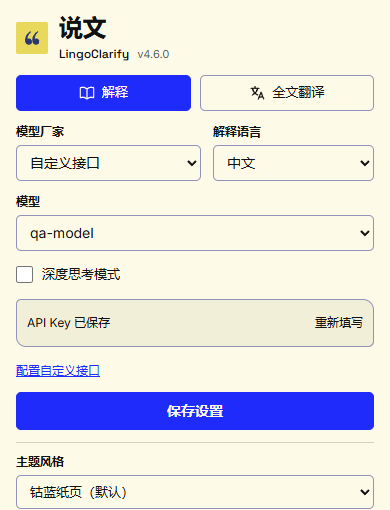
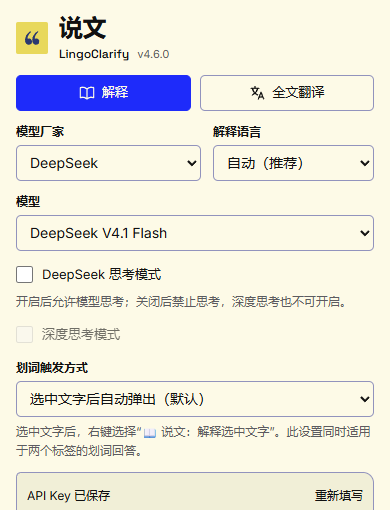
恢复划词触发设置并增加 DeepSeek 思考模式联动控制

diff --git a/popup.js b/popup.js
@@ -97,6 +97,16 @@ function renderModelOptions(tab) {
   }
   tab.detail.textContent = !entries.length && connection.apiKey ? '模型列表由当前接口提供。' : '';
   tab.detail.hidden = !tab.detail.textContent;
+  renderThinkingControls(tab);
+}
+function renderThinkingControls(tab) {
+  const kind = tab.kind;
+  const deepSeek = AIConfig.isDeepSeekEndpoint(providerConnection(tab.manufacturer.value).apiBaseUrl);
+  $(kind+'-deepseek-thinking-section').hidden = !deepSeek;
+  const blocked = deepSeek && !$(kind+'-deepseek-thinking').checked;
+  $(kind+'-thinking').disabled = blocked;
+  if (blocked) $(kind+'-thinking').checked = false;
+  $(kind+'-effort-section').style.display = $(kind+'-thinking').checked ? '' : 'none';
 }
 function renderAllModelOptions() { tabs.forEach(renderModelOptions); }
 function setTabSelection(tab, id) {
@@ -275,9 +285,9 @@ tabs.forEach(tab => tab.manufacturer.addEventListener('change', () => {
   refreshProviderModels(tab.manufacturer.value);
 }));
 for (const kind of ['explain','translate']) {
-  $(kind+'-thinking').addEventListener('change',()=> {
-    $(kind+'-effort-section').style.display=$(kind+'-thinking').checked ? '' : 'none';
-  });
+  const tab = tabs.find(tab=>tab.kind===kind);
+  $(kind+'-thinking').addEventListener('change',()=>renderThinkingControls(tab));
+  $(kind+'-deepseek-thinking').addEventListener('change',()=>renderThinkingControls(tab));
 }
 $('rewrite-key').addEventListener('click',()=>{
   editingKeys.add(connectionProvider);
@@ -354,9 +364,11 @@ $('save-btn').addEventListener('click',async()=>{
     const config={...manufacturerSettings(),...modelSettings(),
       explainThinkingEnabled:$('explain-thinking').checked,explainReasoningEffort:$('explain-effort').value,
       translateThinkingEnabled:$('translate-thinking').checked,translateReasoningEffort:$('translate-effort').value,
+      explainDeepSeekThinkingEnabled:$('explain-deepseek-thinking').checked,
+      translateDeepSeekThinkingEnabled:$('translate-deepseek-thinking').checked,
       language:$('explain-language').value,targetLanguage:$('target-language').value,
       enabled:savedConfig.enabled!==false,usePageContext:savedConfig.usePageContext!==false,
-      triggerMode:savedConfig.triggerMode||'auto',requiresApiSetup:false};
+      triggerMode:$('trigger-mode').value,requiresApiSetup:false};
     await chrome.storage.local.set(config);
     for (const [provider,connection] of Object.entries(providerConnections)) savedKeys[provider]=connection.apiKey;
     editingKeys.clear();showConnection();
@@ -377,10 +389,12 @@ $('save-btn').addEventListener('click',async()=>{
   for (const tab of tabs) {
     tab.manufacturer.value=config[tab.kind+'Manufacturer'];
     $(tab.kind+'-thinking').checked=config[tab.kind+'ThinkingEnabled']===true;
+    $(tab.kind+'-deepseek-thinking').checked=config[tab.kind+'DeepSeekThinkingEnabled']===true;
     $(tab.kind+'-effort').value=config[tab.kind+'ReasoningEffort']||'high';
     $(tab.kind+'-effort-section').style.display=$(tab.kind+'-thinking').checked ? '' : 'none';
   }
   $('explain-language').value=config.language||'auto';$('target-language').value=config.targetLanguage||'zh';
+  $('trigger-mode').value=config.triggerMode;
   showConnection();renderAllModelOptions();
   tabs.forEach(tab=>setTabSelection(tab,config[tab.key]));
   refreshCatalog();

diff --git a/background.js b/background.js
@@ -233,10 +233,10 @@ async function performStreamRequest(port, { promptType, text, context, batchId, 
     port.disconnect();
     return;
   }
+  const kind = mode ? (mode === 'B' ? 'translate' : 'explain') : (promptType === 'explain' ? 'explain' : 'translate');
   let baseUrl;
   let connection;
   try {
-    const kind = mode ? (mode === 'B' ? 'translate' : 'explain') : (promptType === 'explain' ? 'explain' : 'translate');
     connection = AIConfig.connectionFor(config, kind);
     baseUrl = AIConfig.normalizeBaseUrl(connection.apiBaseUrl);
   }
@@ -257,13 +257,14 @@ async function performStreamRequest(port, { promptType, text, context, batchId, 
     return;
   }
 
-  // 试用分支：仅对 DeepSeek 官方端点强制关闭，保留已保存设置便于切回对照。
-  const deepSeekThinkingOff = new URL(baseUrl).hostname === 'api.deepseek.com';
-  if (deepSeekThinkingOff) thinkingEnabled = false;
+  // 官方端点显式控制思考；第三方网关不凭模型名发送厂家专用参数。
+  const deepSeek = AIConfig.isDeepSeekEndpoint(baseUrl);
+  const deepSeekThinkingEnabled = deepSeek && config[kind + 'DeepSeekThinkingEnabled'] === true;
+  if (deepSeek && !deepSeekThinkingEnabled) thinkingEnabled = false;
 
   // 缓存检查（键包含思考开关，避免开关切换后命中旧缓存）
   const cacheKey = JSON.stringify([cacheRevision, baseUrl, model, systemPrompt, prompt,
-    thinkingEnabled, reasoningEffort]);
+    deepSeekThinkingEnabled, thinkingEnabled, reasoningEffort]);
   const doneMessage = output => {
     if (!batchItems) return { type: 'done', model, batchId };
     const items = parseBatchTranslation(output, batchItems.map(item => item.id));
@@ -314,8 +315,8 @@ async function performStreamRequest(port, { promptType, text, context, batchId, 
       stream: true
     };
     // 默认使用最小公共参数，避免不同模型对 temperature / token 上限的差异。
-    if (deepSeekThinkingOff) body.thinking = { type: 'disabled' };
-    else if (thinkingEnabled) body.reasoning_effort = reasoningEffort;
+    if (deepSeek) body.thinking = { type: deepSeekThinkingEnabled ? 'enabled' : 'disabled' };
+    if (thinkingEnabled) body.reasoning_effort = reasoningEffort;
     const endpoint = `${baseUrl}/chat/completions`;
 
     const res = await fetchWithRetry(endpoint, {
@@ -458,6 +459,7 @@ const GENERATION_FIELDS = new Set(['enabled', 'usePageContext', 'triggerMode',
   'language', 'targetLanguage', 'explainModel', 'translateModel',
   'explainManufacturer', 'translateManufacturer', 'explainThinkingEnabled',
   'translateThinkingEnabled', 'explainReasoningEffort', 'translateReasoningEffort',
+  'explainDeepSeekThinkingEnabled', 'translateDeepSeekThinkingEnabled',
   'apiBaseUrl', 'apiKey', 'availableModels', 'modelList', 'modelManufacturers',
   'apiConfigVersion', 'providerConfigVersion', 'modelCatalogVersion',
   'qwenApiKey', 'customModels', 'model', 'thinkingEnabled', 'reasoningEffort']);

diff --git a/config.js b/config.js
@@ -19,6 +19,10 @@
   // 官方厂家有固定地址；自定义连接必须提供自己的地址，不能借用默认厂家。
   const endpointFor = (provider, entry = {}) => PROVIDER_ENDPOINTS[provider] ||
     (typeof entry.apiBaseUrl === 'string' ? entry.apiBaseUrl.trim() : '');
+  function isDeepSeekEndpoint(input) {
+    try { return new URL(input).hostname === 'api.deepseek.com'; }
+    catch { return false; }
+  }
 
   function normalizeBaseUrl(input) {
     let url;
@@ -35,6 +39,7 @@
     const config = { enabled: true, usePageContext: true, triggerMode: 'auto',
       language: 'auto', targetLanguage: 'zh', explainThinkingEnabled: false,
       translateThinkingEnabled: false, explainReasoningEffort: 'high',
+      explainDeepSeekThinkingEnabled: false, translateDeepSeekThinkingEnabled: false,
       translateReasoningEffort: 'high', verifyModel: true, ...raw };
     if (raw.apiConfigVersion !== 1) {
       // 旧版的 apiKey 属于专用供应商，不能发到新默认地址。
@@ -88,6 +93,13 @@
       config.providerConfigVersion = 1;
     }
     config.providerConnections = normalizeConnections(config.providerConnections);
+    config.triggerMode = config.triggerMode === 'contextMenu' ? 'contextMenu' : 'auto';
+    for (const kind of ['explain', 'translate']) {
+      config[kind + 'DeepSeekThinkingEnabled'] = config[kind + 'DeepSeekThinkingEnabled'] === true;
+      const provider = config[kind + 'Manufacturer'];
+      if (isDeepSeekEndpoint(endpointFor(provider, config.providerConnections[provider])) &&
+          !config[kind + 'DeepSeekThinkingEnabled']) config[kind + 'ThinkingEnabled'] = false;
+    }
     for (const key of ['explainReasoningEffort', 'translateReasoningEffort']) {
       if (!['low', 'medium', 'high'].includes(config[key])) config[key] = 'high';
     }
@@ -141,6 +153,6 @@
   }
 
   globalThis.AIConfig = { DEFAULT_MODEL, DEFAULT_MODELS, DEFAULT_BASE_URL,
-    PROVIDER_ENDPOINTS, validProvider, endpointFor, normalizeConnections, connectionFor,
+    PROVIDER_ENDPOINTS, validProvider, endpointFor, isDeepSeekEndpoint, normalizeConnections, connectionFor,
     normalizeModel, normalizeModels, normalizeBaseUrl, migrate, load };
 })();

diff --git a/popup.html b/popup.html
@@ -42,6 +42,14 @@
 
     </div>
 
+    <div class="section" id="explain-deepseek-thinking-section" hidden>
+      <label class="toggle-label">
+        <input type="checkbox" id="explain-deepseek-thinking" aria-describedby="explain-deepseek-thinking-hint" aria-controls="explain-thinking">
+        <span class="toggle-text">DeepSeek 思考模式</span>
+      </label>
+      <p class="hint" id="explain-deepseek-thinking-hint">开启后允许模型思考；关闭后禁止思考，深度思考也不可开启。</p>
+    </div>
+
     <div class="section">
       <label class="toggle-label">
         <input type="checkbox" id="explain-thinking">
@@ -78,6 +86,14 @@
 
     </div>
 
+    <div class="section" id="translate-deepseek-thinking-section" hidden>
+      <label class="toggle-label">
+        <input type="checkbox" id="translate-deepseek-thinking" aria-describedby="translate-deepseek-thinking-hint" aria-controls="translate-thinking">
+        <span class="toggle-text">DeepSeek 思考模式</span>
+      </label>
+      <p class="hint" id="translate-deepseek-thinking-hint">开启后允许模型思考；关闭后禁止思考，深度思考也不可开启。</p>
+    </div>
+
     <div class="section">
       <label class="toggle-label">
         <input type="checkbox" id="translate-thinking">
@@ -94,6 +110,15 @@
       </select>
     </div>
 
+  </div>
+
+  <div class="section" id="trigger-mode-section">
+    <label class="label" for="trigger-mode">划词触发方式</label>
+    <select id="trigger-mode" class="select" aria-describedby="trigger-mode-hint">
+      <option value="auto">选中文字后自动弹出（默认）</option>
+      <option value="contextMenu">仅右键菜单触发</option>
+    </select>
+    <p class="hint" id="trigger-mode-hint">选中文字后，右键选择“📖 说文：解释选中文字”。此设置同时适用于两个标签的划词回答。</p>
   </div>
 
   <div class="section key-section">

diff --git a/popup.css b/popup.css
@@ -34,6 +34,8 @@ button { cursor: pointer; }
 .toggle-label { display: flex; align-items: center; gap: 9px; cursor: pointer; min-height: 24px; }
 .toggle-label input { width: 17px; height: 17px; accent-color: var(--lc-accent); }
 .toggle-text { font-size: 13px; }
+.toggle-label:has(input:disabled) { opacity: .6; cursor: not-allowed; }
+.toggle-label input:disabled { cursor: not-allowed; }
 .key-section { padding: 8px 10px; margin-top: 12px; border: 1.5px solid var(--lc-border); border-radius: 5px 11px 6px 10px; background: var(--lc-soft); }
 .key-saved { display: flex; flex-wrap: wrap; align-items: center; justify-content: space-between; gap: 8px 12px; font-size: 12px; }
 .key-saved > span, .key-saved .mini-btn { flex-shrink: 0; white-space: nowrap; }

diff --git a/docs/SETTINGS_CONTROLS_QA.md b/docs/SETTINGS_CONTROLS_QA.md
@@ -1,0 +1,42 @@
+# 划词触发方式、DeepSeek 思考控制与 GitHub 文件说明验收
+
+日期：2026-10-13，北京时间。扩展版本4.6.0，本次未发布新版本。基线 `03d7b46c4cffd317aea971c30b070aac865c80ac`，起始工作区干净，复用 `codex/tooltip-header-cleanup`，fetch后领先上游3个界面提交。用户确认将这3个提交和本次改动一并同步main，并覆盖根目录全部文件的GitHub列表说明。
+
+## 改动与原因
+
+- 原生右键菜单仍存在，设置页却隐藏了triggerMode。本次在思考强度区域下方恢复“划词触发方式”：auto默认自动回答，contextMenu仅右键触发；点击保存，已有网页即时更新，重开设置保留。
+- DeepSeek官方端点之前强制disabled，界面的深度思考开关不生效。本次解释和翻译各自新增DeepSeek思考总开关，默认关闭；关闭时取消/禁用深度思考，隐藏强度，显式disabled且无effort。开启时显式enabled，只有再开启深度思考才发送effort；重新打开总开关不自动恢复深度思考。
+- `AIConfig.isDeepSeekEndpoint`共用于设置与后台，精确匹配实际主机；显式自定义官方地址同样处理，不根据模型名向第三方网关发送专用参数。新字段进入配置归一化、配置失效和缓存键。
+- GitHub文件列表文字来自最后一次修改该文件的提交标题，没有可编辑的独立文件简介字段。通过逐文件补充职责说明并独立提交，使根目录各文件的最新标题对应实际用途；旧版本提交保留在历史中。
+
+实现参数依据取得于2026-10-13的 [DeepSeek官方思考模式文档](https://api-docs.deepseek.com/zh-cn/guides/thinking_mode/)。其文档将medium映射为high；开关打开但未发送effort时由模型采用默认强度。
+
+## 实际执行
+
+工具：Node.js v24.18.1，Edge 155.0.4283.45，外部已有Playwright；未给扩展增加依赖。所有浏览器运行采用独立profile、合成Key及本机HTTP/SSE，不读取日常浏览器存储。
+
+| 验证 | 结果 | 本地证据 |
+| --- | --- | --- |
+| `node scripts/verify-settings-controls.mjs --playwright <已有包目录>` | 9项通过：位置/默认值、保存重开、实时触发切换、菜单消息实际DOM回答、总开关/深度/强度、解释及翻译/B/批量端口、厂家/地址和草稿隔离、失败反馈、320px及内部滚动 | `artifacts/qa/settings-controls-2026-10-13/report.json` |
+| `node scripts/verify-api.mjs` | 48组模拟通过；包括8路由×8开关组合、关闭组合、其他端点、缓存切换、SSE与错误处理、菜单创建/点击分发 | `artifacts/qa/api-simulation.json` |
+| `node scripts/verify-themes.mjs --playwright <已有包目录>` | 18项实际Edge通过 | `artifacts/qa/themes-2026-10-13/report.json` |
+| `node scripts/verify-markdown.mjs --playwright <已有包目录>` | 24项实际Edge通过；含官方地址转发本机的关闭总开关请求 | `artifacts/qa/markdown/report.json` |
+| `node scripts/verify-adversarial-background.mjs --report artifacts/qa/settings-controls-2026-10-13/background-timing.json` | 2项时序与8项故障对照通过 | `artifacts/qa/settings-controls-2026-10-13/background-timing.json` |
+| `node scripts/verify.mjs --report artifacts/qa/static-check.json` | 最终报告逐项记录语法/入口/资源/版本结果 | `artifacts/qa/static-check.json` |
+| `git diff --check` | 通过 | 提交前执行；职责注释阶段再次执行 |
+
+截图 `deepseek-off.png`、`deepseek-on.png`保存在定向验收目录，已视觉复核开关禁用、位置及510px内部滚动布局。README设置截图更新为关闭总开关的实际Edge窗口。
+
+新工具开发过程中修正了测试代码的端口名/消息类型、从设置页连接后台而非后台自连、批量模拟误匹配协议说明中的示例ID。旧后台时序工具补加载实际源码现在依赖的selection模块后通过。这些测试工具修正没有改变产品消息协议或批量解析实现。
+
+## 验收边界与使用
+
+真实DeepSeek账号权限、模型参数执行效果、回答质量、首字耗时和流式生成未验证；官方地址在测试中被转发到本机。原生系统右键菜单的鼠标点击和工具栏原生弹窗未操作：菜单创建/点击分发在VM执行，实际Edge确认已有菜单可更新，通过真实tabs.sendMessage、Range、内容脚本端口验证回答路径。其他浏览器和特殊网站未全面验收。
+
+在 `edge://extensions` 重新加载根目录扩展，再刷新网页。进入设置选择触发方式和DeepSeek开关，点击“保存设置”。已有旧DeepSeek深度思考值且无新总开关时归一化为关闭，后续可由用户明确开启。
+
+`Description.md`已同步本地职责及维护记录，继续由 `.git/info/exclude`排除，不进入任何提交。生成证据/profile保留在忽略目录。
+
+## GitHub同步
+
+同步目标为 `siwenyu1213/LingoClarify` 的 `main` 和现有任务分支。通过普通快进/推送保留全部历史；逐文件职责提交按原顺序进入main，以便GitHub默认列表显示各自功能。权限核对为ADMIN，两分支均返回protected=false，有效分支规则为空；传统保护返回明确Branch not protected。最终远程SHA和文件最新标题的逐项核对保存在 `artifacts/qa/settings-controls-2026-10-13/github-file-descriptions.json`。

diff --git a/README.md b/README.md
@@ -50,6 +50,8 @@ git clone https://github.com/siwenyu1213/LingoClarify.git
 
 默认选中文字后自动弹出回答，也可以选中文字后右键选择 **“📖 说文：解释选中文字”**。
 
+在设置页的思考强度区域下方，通过“划词触发方式”选择“选中文字后自动弹出（默认）”或“仅右键菜单触发”，点击“保存设置”后生效。仅右键模式下，选中文字不会自动请求；右键菜单在两种模式中都可使用。
+
 | 选中的内容 | 处理方式 |
 | --- | --- |
 | 外语词语、短语和短片段 | 先给中文含义或译文，再解释词义、概念及必要的语境差异 |
@@ -98,7 +100,11 @@ git clone https://github.com/siwenyu1213/LingoClarify.git
 
 解释语言提供中文、英文和自动选项；外语词语的翻译加解释固定以中文输出。翻译目标语言提供中、英、日、韩、法、德、西、葡、俄、阿拉伯语。
 
-**DeepSeek 官方主机 `api.deepseek.com` 固定关闭思考**，覆盖划词、再次解释和全文翻译，设置中的思考开关对此主机不生效。其他接口开启思考时发送 `reasoning_effort`；关闭时省略该参数，采用模型默认行为。第三方网关是否支持思考参数取决于服务自身。
+**DeepSeek 官方接口提供独立的“DeepSeek 思考模式”开关**，放在“深度思考模式”上方，解释和全文翻译分别配置，默认关闭。开启后发送 `thinking.type = enabled`，允许模型思考；关闭后发送 `disabled`，同时取消并禁用深度思考、不发送思考强度。重新打开总开关不会自动恢复深度思考。
+
+总开关打开后，可再开启“深度思考模式”并选择思考强度；关闭深度思考时仍允许普通思考，采用模型默认强度。点击“保存设置”后，配置用于划词、再次解释、全文及批量翻译。参数依据 [DeepSeek 官方文档](https://api-docs.deepseek.com/zh-cn/guides/thinking_mode/)；当前文档将中等强度映射为高。
+
+仅对实际主机 `api.deepseek.com` 使用这些专用参数，包括显式填写该官方地址的自定义连接。其他接口开启深度思考时发送 `reasoning_effort`；关闭时省略该参数，采用模型默认行为。第三方网关不凭模型名套用 DeepSeek 专用参数。
 
 当前不支持仅有 Responses API 的服务或特殊鉴权协议。没有兼容模型列表、且没有可用缓存时，无法在设置页新选模型；列表查询成功也不保证生成权限。
 

diff --git a/交接.md b/交接.md
@@ -6,6 +6,8 @@
 
 ## 最新工作基线
 
+2026-10-13 从干净 `03d7b46` 复用当前分支，恢复可保存的划词触发方式；解释/翻译各自新增DeepSeek思考总开关，关闭时清除并禁用深度思考，官方请求显式发送enabled/disabled。此前三主题和390×510px弹窗一并按用户授权同步main。根目录文件通过独立职责说明提交更新GitHub列表文字，保留历史。验证方法和边界见 [SETTINGS_CONTROLS_QA](docs/SETTINGS_CONTROLS_QA.md)。以下各轮工作记录为历史快照。
+
 2026-10-13 三主题任务以干净 de98ff6 为基线，复用 codex/tooltip-header-cleanup，fetch 后与上游一致。当前 UI 使用蜜桃涂鸦布局，提供钴蓝纸页（默认）/蜜桃涂鸦/靛蓝手稿，独立 uiTheme 即时持久化并同步页面；使用原创引号图标与本地字体。设置页删除 DeepSeek 固定关闭提示，后台策略保留。此完成点仅本地提交，验收及未验证边界见 [THEMES_QA](docs/THEMES_QA.md)。以下品牌改名记录保留为前一轮历史。
 
 本次等待“优化输出浮层拖动与定位”对话完成后执行，产品基线为 `493798aca0502d39b1c7c5086e93923da9214e77`，分支 `codex/tooltip-header-cleanup`，起始工作区干净。该基线在 `main@5fc9c1f` 上移除了标题区移动按钮和提示文字，保留按住左键拖动与自动选区避让。
@@ -24,7 +26,8 @@
 | 全文 | Text节点任务，批量/回退共享50个实际请求限额；动态文字处理、原文切换与条件恢复 |
 | 配置 | 解释/翻译分别选厂家、模型与语言；厂家独立Key；接口列表决定可选模型；custom必须明确地址 |
 | 外观 | 蜜桃涂鸦布局、三主题即时保存、默认钴蓝纸页；引号品牌图标、本地字体 |
-| 思考 | DeepSeek官方主机固定关闭思考；其他接口沿用设置，并要求服务支持相关参数 |
+| 触发 | 默认划词自动回答，可保存为仅右键菜单触发，两种模式均保留菜单 |
+| 思考 | DeepSeek官方接口两层开关：总开关enabled/disabled、深度思考控制强度；两用途分别配置，关闭总开关禁用深度思考 |
 | 导出 | 复制Markdown原文；TXT含所选原文及回答，下载名为“笔记/说文_时间戳.txt” |
 
 外语完整句段使用翻译配置，其余划词解释使用解释配置；外语词语的翻译加解释以中文输出。完整规则在 `selection-prompts.js`。提示词格式和少思考要求不是质量或耗时保证。

diff --git a/docs/materials/README.md b/docs/materials/README.md
@@ -9,4 +9,4 @@
 | `screenshots/settings.png` | 实际扩展设置页，展示说文/LingoClarify标题、解释/翻译标签和配置界面 |
 | `screenshots/result.png` | 合成英语网页中的实际划词浮层，展示品牌、原文与模拟Markdown回答 |
 
-截图不证明真实供应商生成能力、回答质量或速度。原品牌验收见 [品牌验收](../BRANDING_QA.md)；当前截图来源为 [三主题验收](../THEMES_QA.md)，对应 `artifacts/qa/themes-2026-10-13/cobalt-settings.png`、`cobalt-result.png`。
+截图不证明真实供应商生成能力、回答质量或速度。原品牌验收见 [品牌验收](../BRANDING_QA.md)；设置截图于2026-10-13更新为 [触发与思考控件验收](../SETTINGS_CONTROLS_QA.md) 的 `artifacts/qa/settings-controls-2026-10-13/deepseek-off.png`，展示默认关闭思考与恢复的划词触发方式。结果截图仍来自 [三主题验收](../THEMES_QA.md) 的 `cobalt-result.png`。
